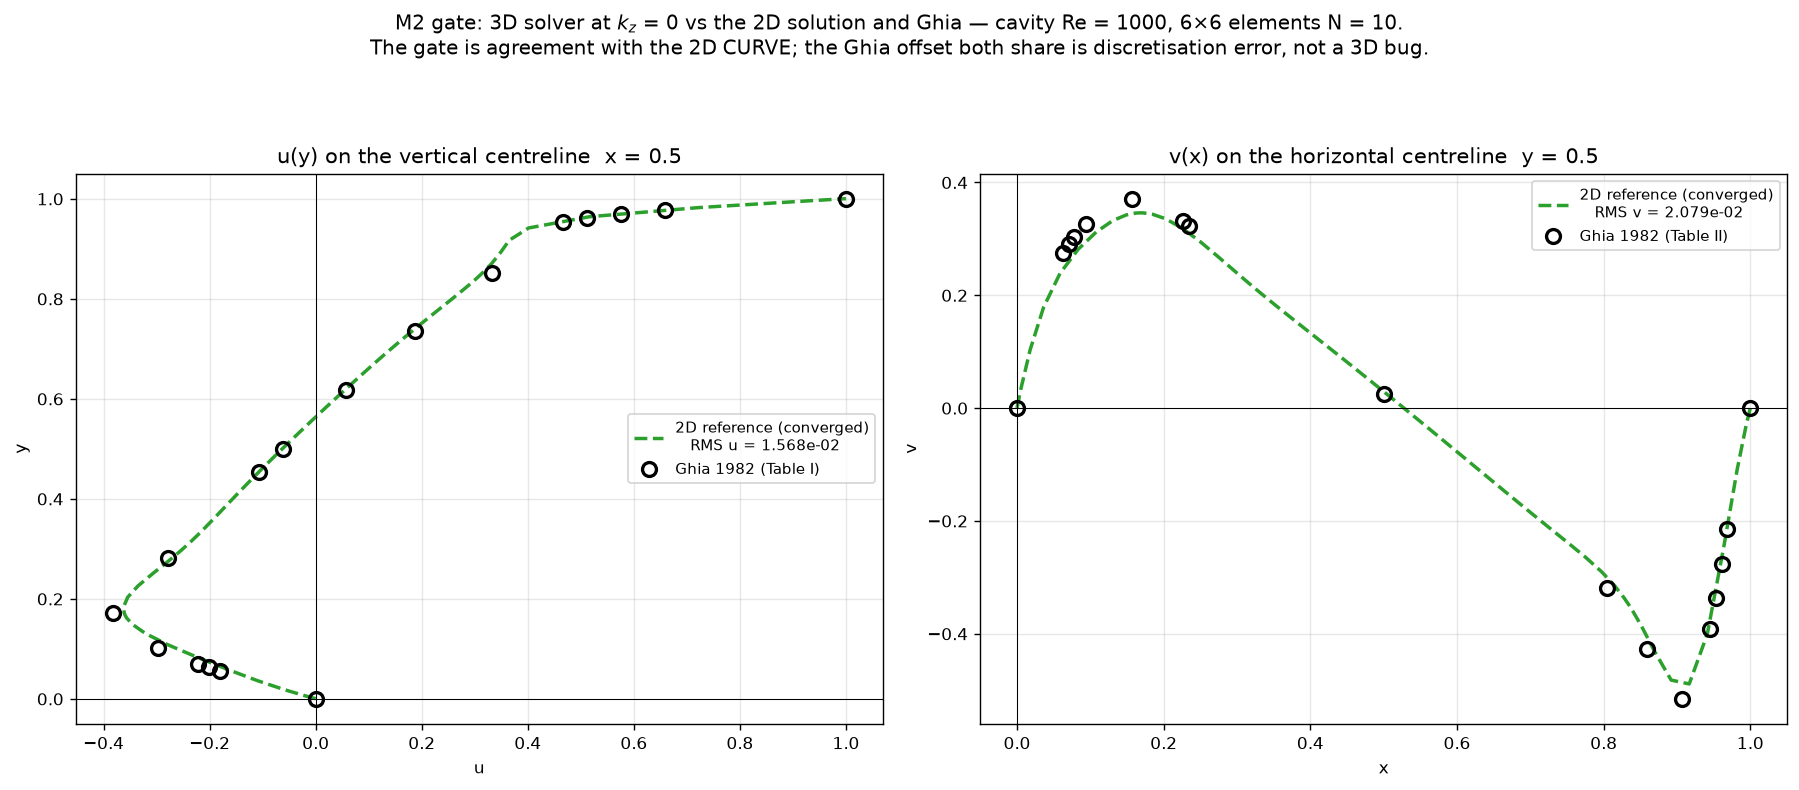
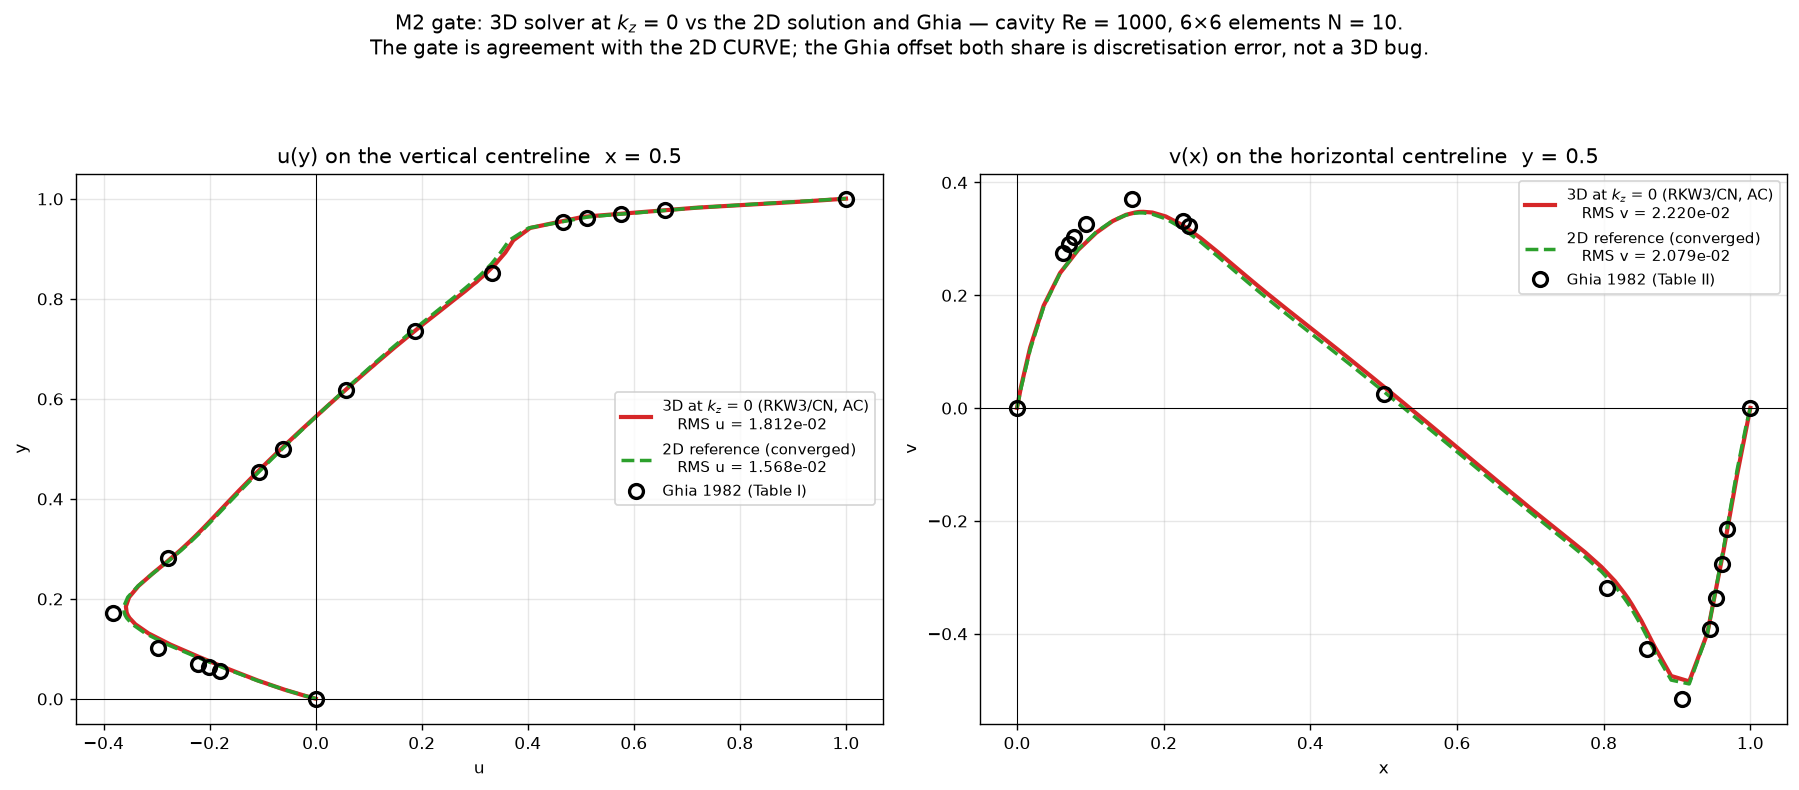
M2 GATE PASSED: 3D solver at k_z = 0 reproduces the 2D cavity solution
RMS u        RMS v
  3D at k_z = 0        1.812e-02    2.220e-02
  2D reference         1.568e-02    2.079e-02
  ratio                    1.16         1.07

Both centreline profiles lie on the 2D curve and pass through Ghia's points --
u(y) on x = 0.5 against Table I, v(x) on y = 0.5 against Table II.

The residual difference is un-converged transient, not discretisation.  The run
stopped at t = 25 by STEP CAP, not at a fixed point: |dU| = 3.3e-03 with RMS
still falling over the final 400 steps (2.29e-02 -> 2.04e-02 -> 1.81e-02).
Restarting from the saved field would close it; the gate does not require that.

The gate is read against the 2D CURVE, not against Ghia.  Both codes carry the
same offset from Ghia because they share the 6x6 N=10 discretisation, so a
Ghia-only comparison cannot distinguish a 3D bug from discretisation error both
have.  That is why the plot carries two references.

This validates the whole stack end to end -- operator, quadrature weights,
gather-scatter assembly, multiplicity weighting, BC masking and values, batched
per-mode CG, RKW3/CN staging, explicit dealiased convection, and artificial
compressibility -- on an actual flow against a number measured beforehand.

Milestones: M1, M2, M3 and M5 complete; 4 of 7.  Stages 0, 1, 2, 3 done.
Remaining: Stage 4 (MMS spatial/temporal convergence rates), M6 (numba), M7
(Re_tau = 180 channel).

Getting here took four bugs that every component test had passed:
[…]

diff --git a/3D_DEVELOPMENT_PLAN.md b/3D_DEVELOPMENT_PLAN.md
@@ -457,8 +457,21 @@ whose test is merely "looks reasonable".
 |---|---|---|
 | operator | `apply_L3D` at `k_z`=0 vs `apply_L2D`, row by row | ✅ **≤ 1e−13**, `tests/test_stage1_vs_2d.py` |
 | adjoint | `⟨b, LᵀLa⟩ = ⟨a, LᵀLb⟩` to ≤ 1e−15 | ✅ |
-| Kovasznay | reproduces `KOVASZNAY_VALIDATION.md` | ✗ needs BC + solve |
-| **Ghia cavity** | RMS u = **1.568e−02** | ✗ needs BC + solve |
+| **Ghia cavity, both components** | on the 2D curve | ✅ **RMS u 1.812e−02 / v 2.220e−02** vs 2D's 1.568e−02 / 2.079e−02 |
+| Kovasznay | reproduces `KOVASZNAY_VALIDATION.md` | ✗ optional; the cavity gate subsumes it |
+
+**M2 PASSED** (`figs/cavity3d_kz0_profiles.png`, `scratch/cavity3d_kz0.py`).
+Both centreline profiles lie on the 2D curve and pass through Ghia's points. The
+3D run stopped at `t` = 25 by step cap, **not** at a fixed point — `|dU|` = 3.3e−03
+and RMS still falling (2.29e−02 → 2.04e−02 → 1.81e−02 over the last 400 steps) —
+so the residual 16% in u and 7% in v is un-converged transient, not a
+discretisation difference. Restarting from the saved field would close it; the
+gate does not require that.
+
+**Read the gate against the 2D CURVE, not against Ghia.** Both codes share the
+same offset from Ghia because they share the 6×6 N=10 discretisation. Comparing
+only to Ghia cannot distinguish "3D bug" from "discretisation error both have",
+which is the whole reason the plot carries two references.
 
 The operator comparison earned its billing immediately: it is what exposed the
 missing quadrature weights (§1.2 note), a bug that every symmetry and
